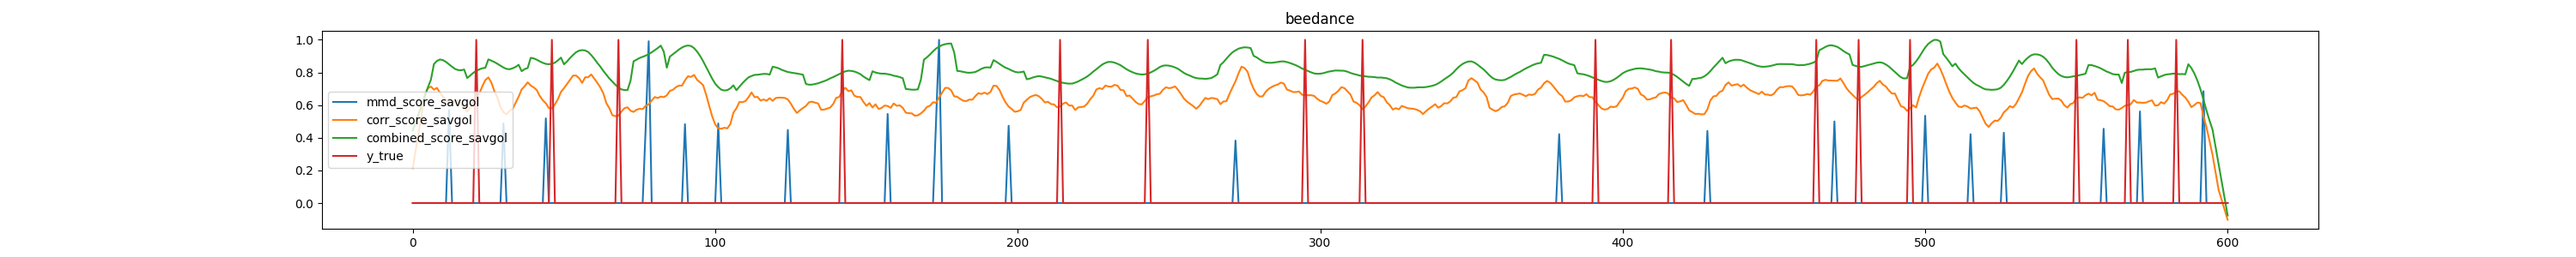
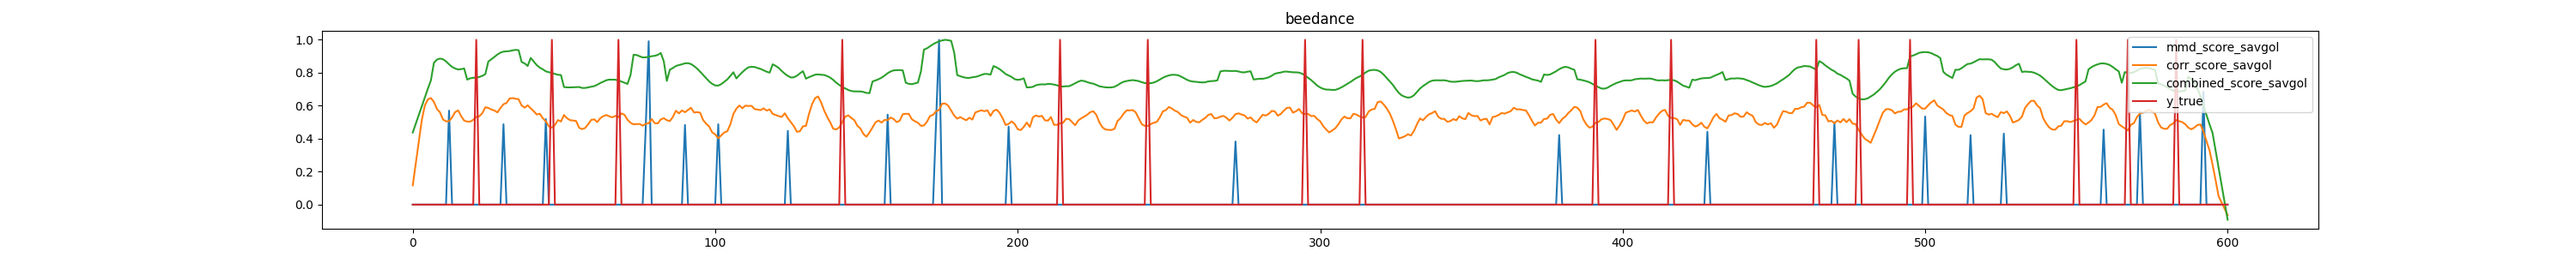
Updating ensemble

diff --git a/TiVaCPD/cpd_methods.py b/TiVaCPD/cpd_methods.py
@@ -448,7 +448,7 @@ class MMDATVGL_CPD():
 
         if(wavelet):
             self.series = preprocessing.normalize(self.series, axis=0)
-            self.series = wave_f.wavelet_t_win(self.series , wavelet = self.wave_shape, mode=self.wave_ext)
+            self.series = wave_f.wavelet_t_win(self.series , wavelet = self.wave_shape, mode=self.wave_ext, width_num=3)
             #print(f'initial feature shape: {series.shape} and after transition shape: {self.series.shape}')
         if(self.remove_corr):
             self.r_corr_feat(self.series)
@@ -465,8 +465,8 @@ class MMDATVGL_CPD():
         #X = (X - np.min(X))/(np.max(X) - np.min(X))
         print('shape X: ', X_.shape)
         S = np.cov(X_.T)
-        print('Corr shape: ', S.shape, np.max(S), np.min(S))
         S = np.tril(S, -1)
+        print('Corr shape: ', S.shape, np.max(S), np.min(S))
 
         if(print_corr_matrix):
             plt.imshow(S, cmap='hot', interpolation='nearest')
@@ -476,9 +476,9 @@ class MMDATVGL_CPD():
 
         S = S.reshape(-1)
         index_m = np.arange(len(S))
-        list_index = index_m[S>thresh]
+        list_index = index_m[abs(S)>thresh]
         #list_index = [index for index,value in enumerate(S) if value > thresh]
-        list_index = list_index % len(X)
+        list_index = list_index % X.shape[1]
         X_up = np.delete(X, list_index, axis=1)
         print('length updated list: ', X_up.shape)
         

diff --git a/TiVaCPD/experiments.py b/TiVaCPD/experiments.py
@@ -189,13 +189,22 @@ def main():
 
             if not np.all((combined_score_savgol == 0)):
                 combined_score_savgol /= np.max(np.abs(combined_score_savgol),axis=0)
-            """
+            #"""
             mmd_score_nor = stats.zscore(mmd_score)
-            mmd_score_nor = (mmd_score_nor - np.min(mmd_score_nor)) / (np.max(mmd_score_nor) - np.min(mmd_score_nor))
-
+            #mmd_score_nor = (mmd_score_nor - np.min(mmd_score_nor)) / (np.max(mmd_score_nor) - np.min(mmd_score_nor))
             corr_score_nor = stats.zscore(corr_score)
-            corr_score_nor = (corr_score_nor - np.min(corr_score_nor)) / (np.max(corr_score_nor) - np.min(corr_score_nor))
+            #corr_score_nor = (corr_score_nor - np.min(corr_score_nor)) / (np.max(corr_score_nor) - np.min(corr_score_nor))
             
+            q3, q1 = np.percentile(mmd_score_nor, [75 ,25])
+            mmd_iqr = q3 - q1
+            mmd_vote = (mmd_score_nor > (1.5 * mmd_iqr))
+            q3, q1 = np.percentile(corr_score_nor, [75 ,25])
+            corr_iqr = q3 - q1
+
+            W = np.dot(corr_score_nor, mmd_score_nor) / len(corr_score_nor)
+            D = np.mean(abs(corr_score_nor - mmd_score_nor))
+            print('weights: ', W, D)
+
             combined_score_nor = np.add(mmd_score_nor, corr_score_nor)
             y_pred = mmd_score_nor
             metrics = ComputeMetrics(y_true, y_pred, args.margin)
